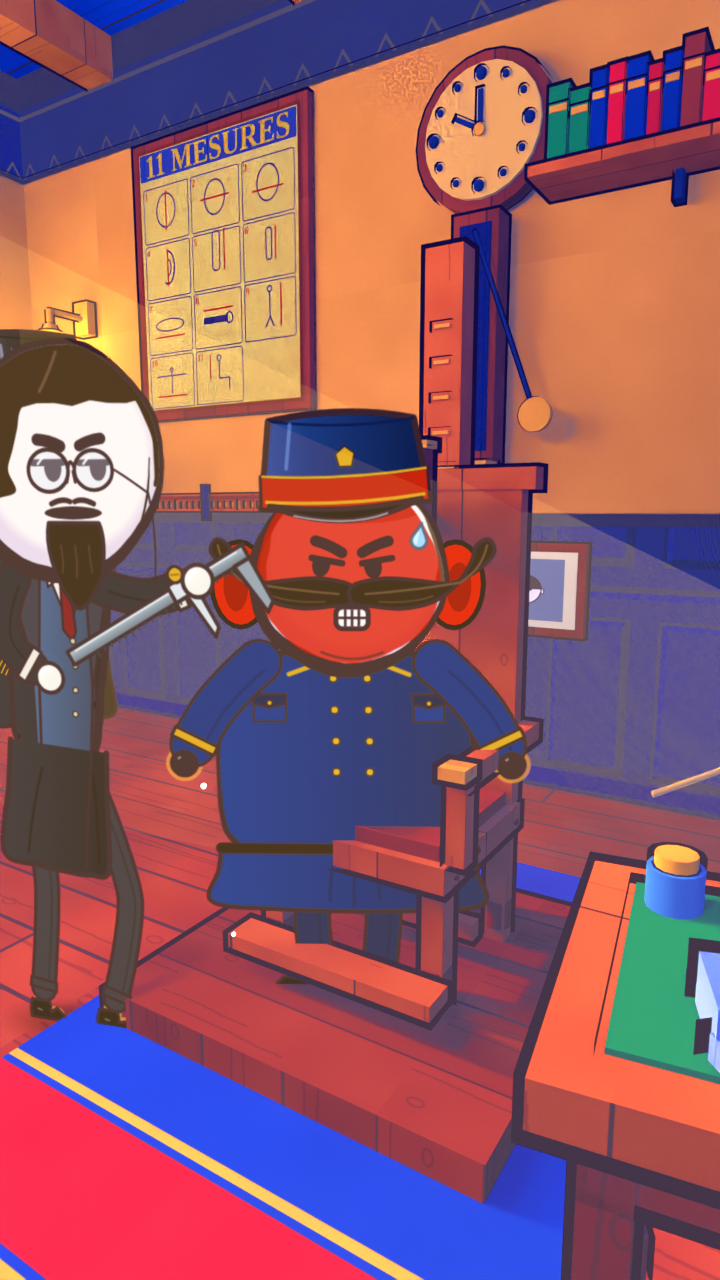
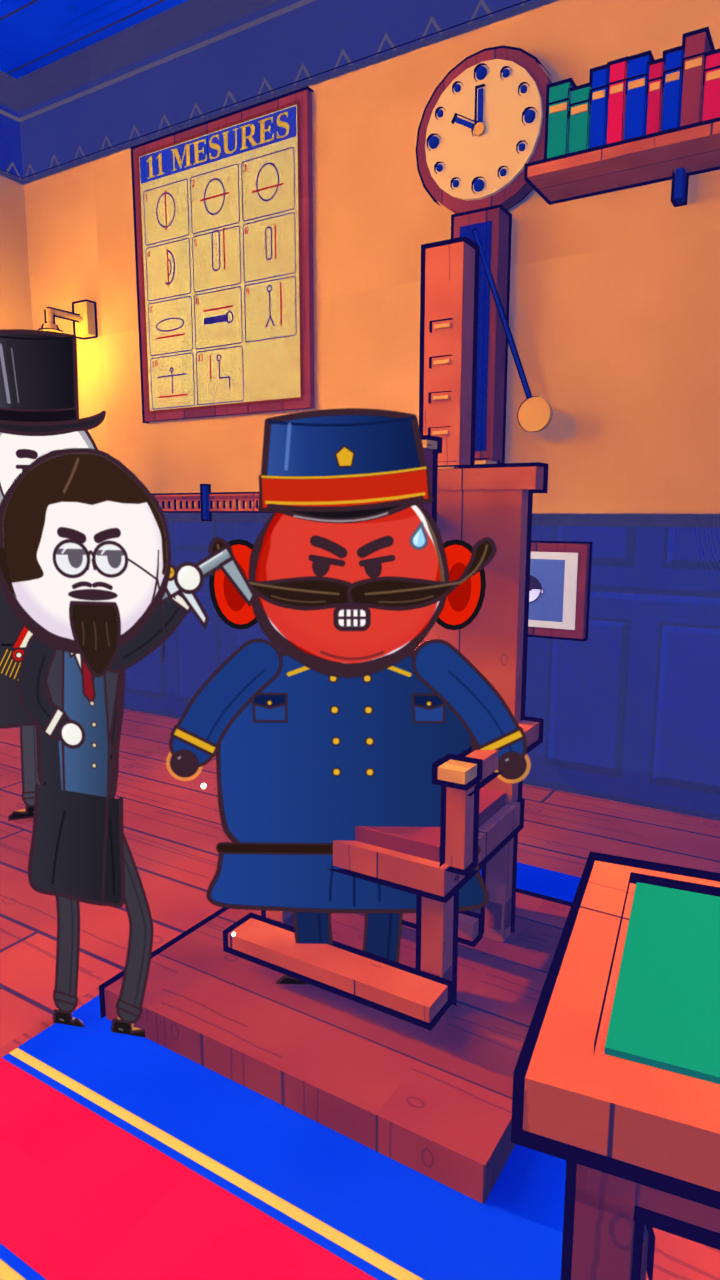
film17 v2 T8: key still g2030 re-render (Bertillon in frame, shaft + quill stick hidden), run script
Claude-Session: https://claude.ai/code/session_017iwyCtu2qpQYE4jRFXENS

diff --git a/film/v3/film17v2/T8/render.py b/film/v3/film17v2/T8/render.py
@@ -79,11 +79,12 @@ def _ramp(g, a, b): return (g - a) / float(b - a)
 I_c, I_p = S['inspector_seated_stiff']
 S['insp_red_seated'] = (I_c, dict(I_p, expr='furious', mouth='clench', flush17=1.0, fx=['sweat'], seat17='chair', pitch=0.0, yaw=0.10, gaze=(-0.8, 0.0)))   # red-faced, sitting stiff
 B_c, B_p = S['bertillon_measuring']
+BDX0 = float(os.environ.get('BDX0', -1.25)); BHS = float(os.environ.get('BHS', 0.8))
 BDXE = float(os.environ.get('BDXE', -1.1))
 def bnudge(g):
     """Bertillon's offset from his anchor ML(1.3,1.85): beside the chair on the inspector's right (screen-left), nearer the camera than the head so the jaws draw in front;
     he steps toward the chair for the clamp (g2012-2040) so the glove stays in frame as the camera pushes in."""
-    return (-1.49 + (BDXE + 1.49) * _ss(_ramp(g, 2012, 2040)), -0.10)     # dx, dy (m): Bertillon stands beside the chair (not in front of the inspector's face), same depth as the chair
+    return (BDX0 + (BDXE - BDX0) * _ss(_ramp(g, 2012, 2040)), -0.10)     # dx, dy (m): Bertillon stands beside the chair (not in front of the inspector's face), same depth as the chair
 EAR_X = 0.52; EAR_ANG = -30
 
 
@@ -103,7 +104,7 @@ def assign_for(g):
     cl = 'gendarme_laughing_a'; clb = 'gendarme_laughing_b'
     grin = lambda nm, base: (nm, {})
     t = _ss(_ramp(g, 1985, 2006)); gn = {'dx': 1.0 * t, 'dy': 2.0 * t}     # the OTS gendarme steps aside as the camera passes (his head would leave the top edge)
-    a = {'inspector': ('insp_red_seated', {'seated': 'chair', 'dy': -0.14}), 'bertillon': (_bert_story(g), {'dx': bnudge(g)[0], 'dy': bnudge(g)[1]}),
+    a = {'inspector': ('insp_red_seated', {'seated': 'chair', 'dy': -0.14}), 'bertillon': (_bert_story(g), {'dx': bnudge(g)[0], 'dy': bnudge(g)[1], 'H': P.K.CAST_H['bertillon'] * (1 - (1 - BHS) * _ss(_ramp(g, 2012, 2040)))}),
          'gend_a': (cl, gn), 'gend_b': (clb, {}), 'crowd2': (cl, {}),
          'crowd1': ('prisoner_standing_a', {'expr': 'laugh'}), 'crowd3': ('prisoner_standing_c', {'expr': 'laugh'}), 'prefect': ('prefect_neutral', {})}
     return a
@@ -128,13 +129,25 @@ def clean():
 def ear_target(g):
     """jaw-target in Bertillon's puppet-local D: the inspector's (screen-right) ear relative to Bertillon's head, from the cast geometry."""
     ct = {c['name']: c for c in P.TAKES[TAKE]['cast']}; pi = P.cast_pos(ct['inspector'], g); pb = P.cast_pos(ct['bertillon'], g)
-    sb = P.K.CAST_H['bertillon'] / P.K.CAST_HD['bertillon']; si = P.K.CAST_H['inspector17'] / P.K.CAST_HD['inspector17']
+    hs = 1 - (1 - BHS) * _ss(_ramp(g, 2012, 2040)); sb = P.K.CAST_H['bertillon'] * hs / P.K.CAST_HD['bertillon']; si = P.K.CAST_H['inspector17'] / P.K.CAST_HD['inspector17']
     dx = (pi[0] - (pb[0] + bnudge(g)[0]) - EAR_X * si) / sb          # world +x is screen right here (camera looks +y); the ear is 0.5 D left of the inspector's head
-    zi = P.FZ + P.K.HEAD_Z['chair'] + 0.10 * si; zb = P.FZ + P.K.CAST_H['bertillon'] - 0.51 * sb - 0.0   # head centre height of Bertillon (head top 0.51 D above the head centre)
+    zi = P.FZ + P.K.HEAD_Z['chair'] + 0.10 * si; zb = P.FZ + P.K.CAST_H['bertillon'] * hs - 0.51 * sb - 0.0   # head centre height of Bertillon (head top 0.51 D above the head centre)
     return (dx + (float(os.environ.get('TX', 0.27)) + float(os.environ.get('TX2', 0.22)) * _ss(_ramp(g, 2024, 2052))), (zb - zi) / sb + float(os.environ.get('TY', 0.18)))       # +(-0.08, +0.18) D: measured on the g2052 still (jaws onto the ear, not above it)
 
+_orig_sc = P.K.sliding_calipers
+def _sc(B, c, *a, **k):          # director: the thin light stick by the small table = calipers lying on it; hidden for T8
+    if tuple(round(v, 3) for v in c) == (-0.02, -0.05, 0.808): return
+    return _orig_sc(B, c, *a, **k)
+P.K.sliding_calipers = _sc
+_orig_ink = P.K.inkpot
+def _ink(B, c, *a, **k):          # its quill reads as a thin light stick at the right edge: skipped on the small calipers table
+    if tuple(round(v, 3) for v in c) == (-0.3, 0.15, 0.808): return
+    return _orig_ink(B, c, *a, **k)
+P.K.inkpot = _ink
 def setup(still_g=None):
     A = P.world_build(TAKE); P.key_take(TAKE); P.setup_render2((720, 1280), samples=16, threads=2)
+    for o in bpy.data.objects:
+        if 'beam' in o.name: o.hide_render = True; o.visible_camera = False; o.visible_shadow = False; print('hidden shaft', o.name)
     return A
 
 def do_frame(g, out, sprite_dir):
